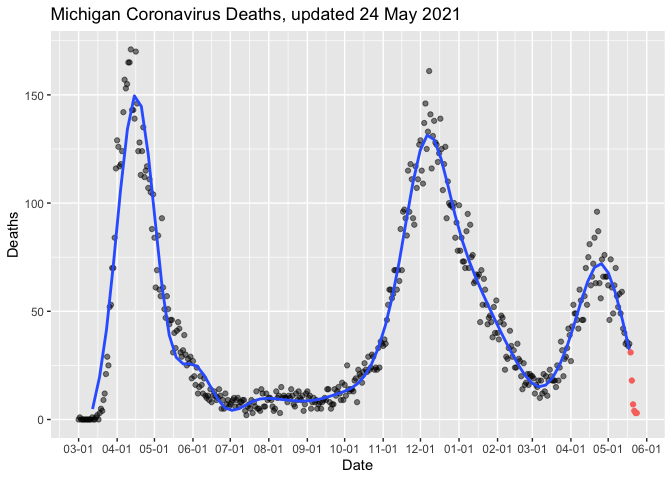
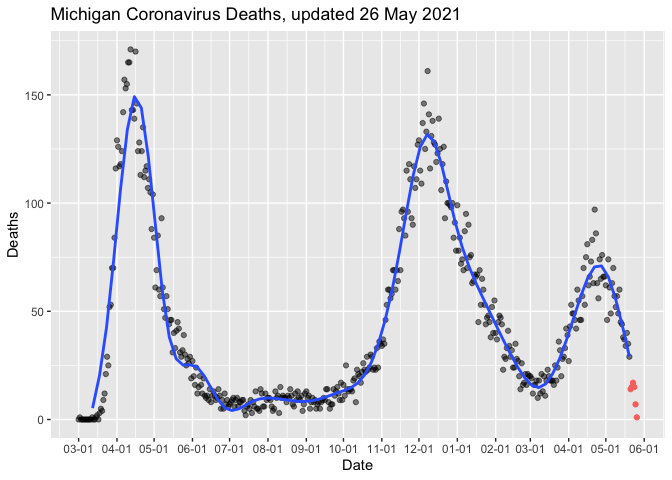
May-27 2021 14:26 update

diff --git a/MiCorona.md b/MiCorona.md
@@ -1,7 +1,7 @@
 Michigan COVID Data
 ================
 Adam D. DenHaan
-May 25, 2021
+May 27, 2021
 
 ``` python
 from urllib.request import urlopen
@@ -34,7 +34,7 @@ mi_data = readxl::read_excel("data/covid.xlsx")
 glimpse(mi_data)
 ```
 
-    ## Rows: 79,200
+    ## Rows: 79,552
     ## Columns: 8
     ## $ COUNTY            <chr> "Alcona", "Alcona", "Alcona", "Alcona", "Alcona", "A…
     ## $ Date              <dttm> 2020-03-01, 2020-03-02, 2020-03-03, 2020-03-04, 202…
@@ -43,7 +43,7 @@ glimpse(mi_data)
     ## $ Deaths            <dbl> 0, 0, 0, 0, 0, 0, 0, 0, 0, 0, 0, 0, 0, 0, 0, 0, 0, 0…
     ## $ Cases.Cumulative  <dbl> 0, 0, 0, 0, 0, 0, 0, 0, 0, 0, 0, 0, 0, 0, 0, 0, 0, 0…
     ## $ Deaths.Cumulative <dbl> 0, 0, 0, 0, 0, 0, 0, 0, 0, 0, 0, 0, 0, 0, 0, 0, 0, 0…
-    ## $ Updated           <dttm> 2021-05-24 13:30:22, 2021-05-24 13:30:22, 2021-05-2…
+    ## $ Updated           <dttm> 2021-05-26 12:41:13, 2021-05-26 12:41:13, 2021-05-2…
 
 Wrangle Data:
 
